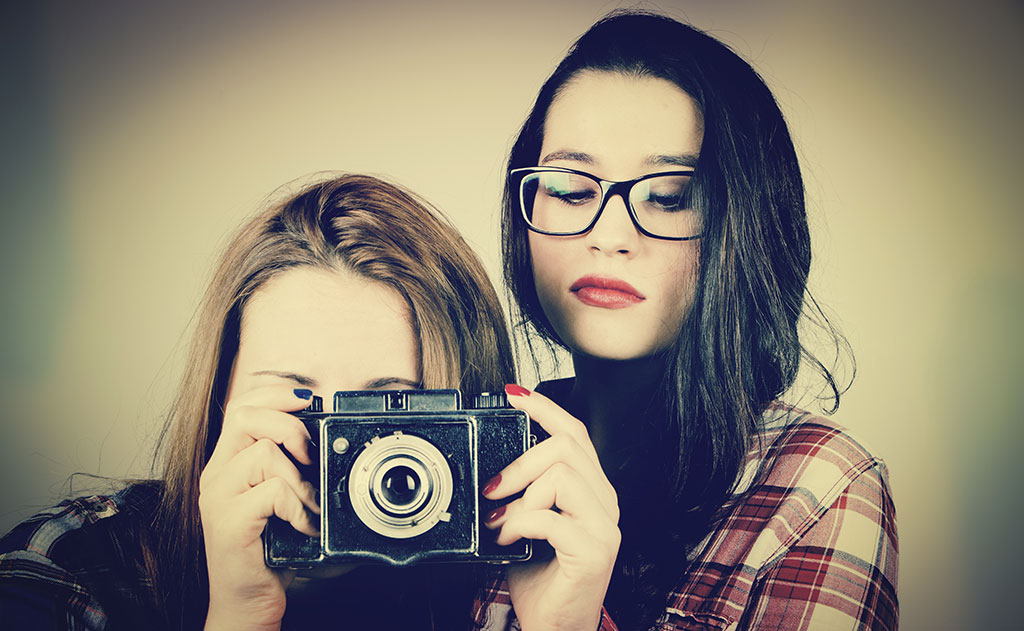
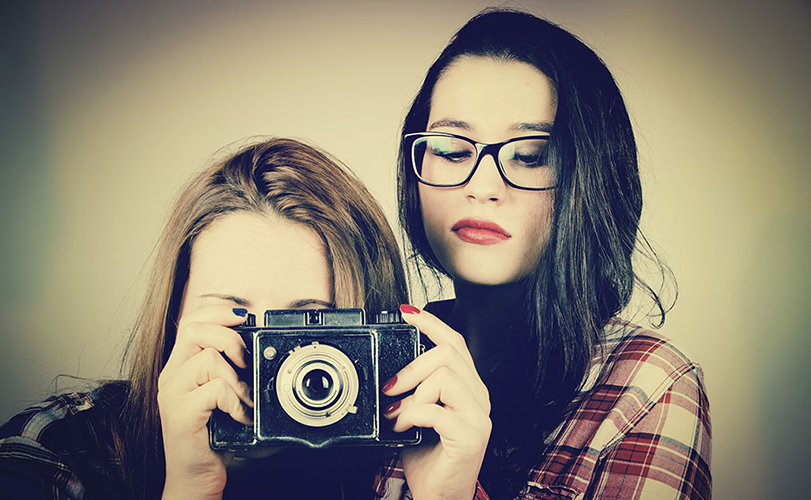
add home to metadata and feature image changed

diff --git a/stylesheet.less b/stylesheet.less
@@ -70,7 +70,7 @@ pre {
 }
 
 .companyheader {
-    margin: 4em 0;
+    margin: 3em 0;
     width: 100%;
     float: left;
     @media @mobile {
